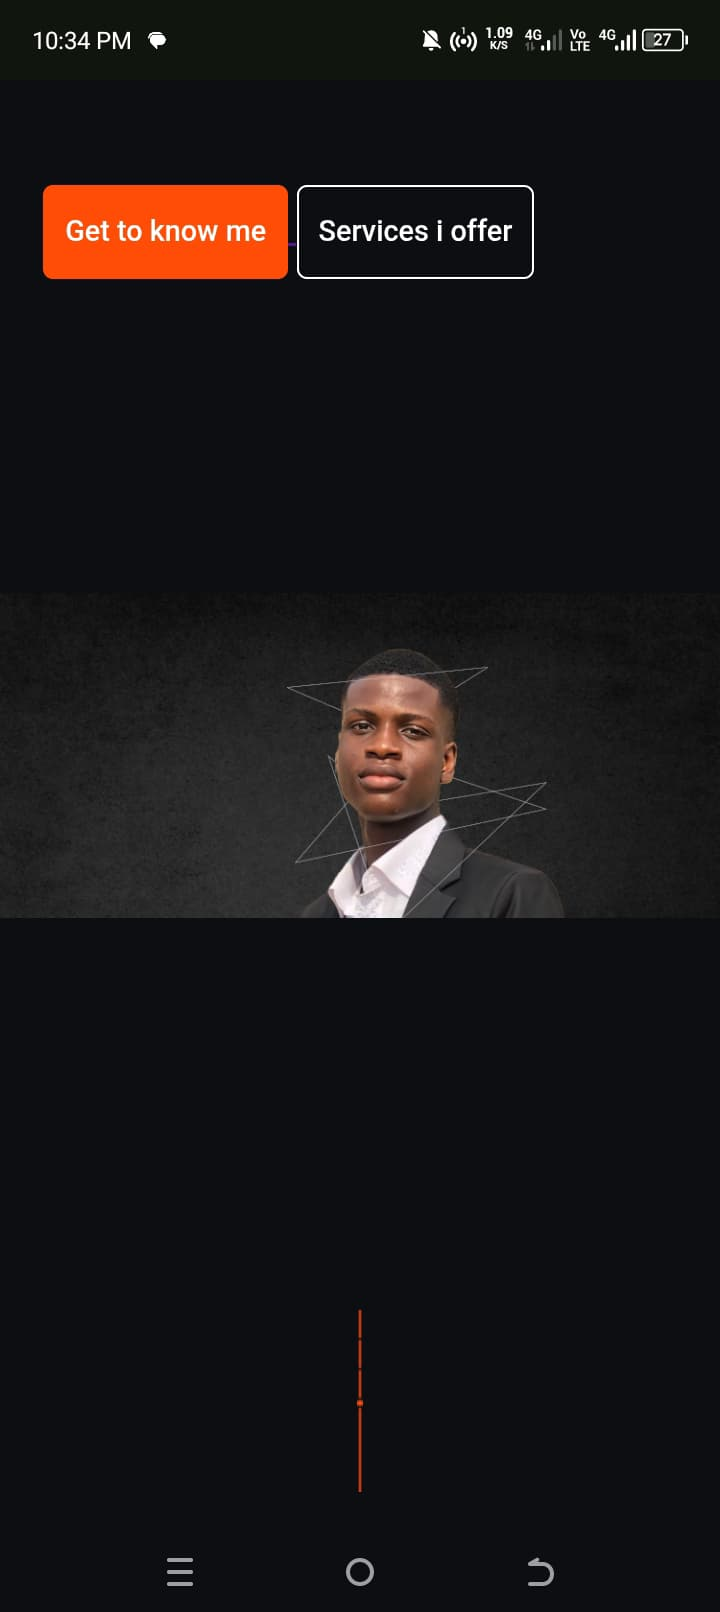
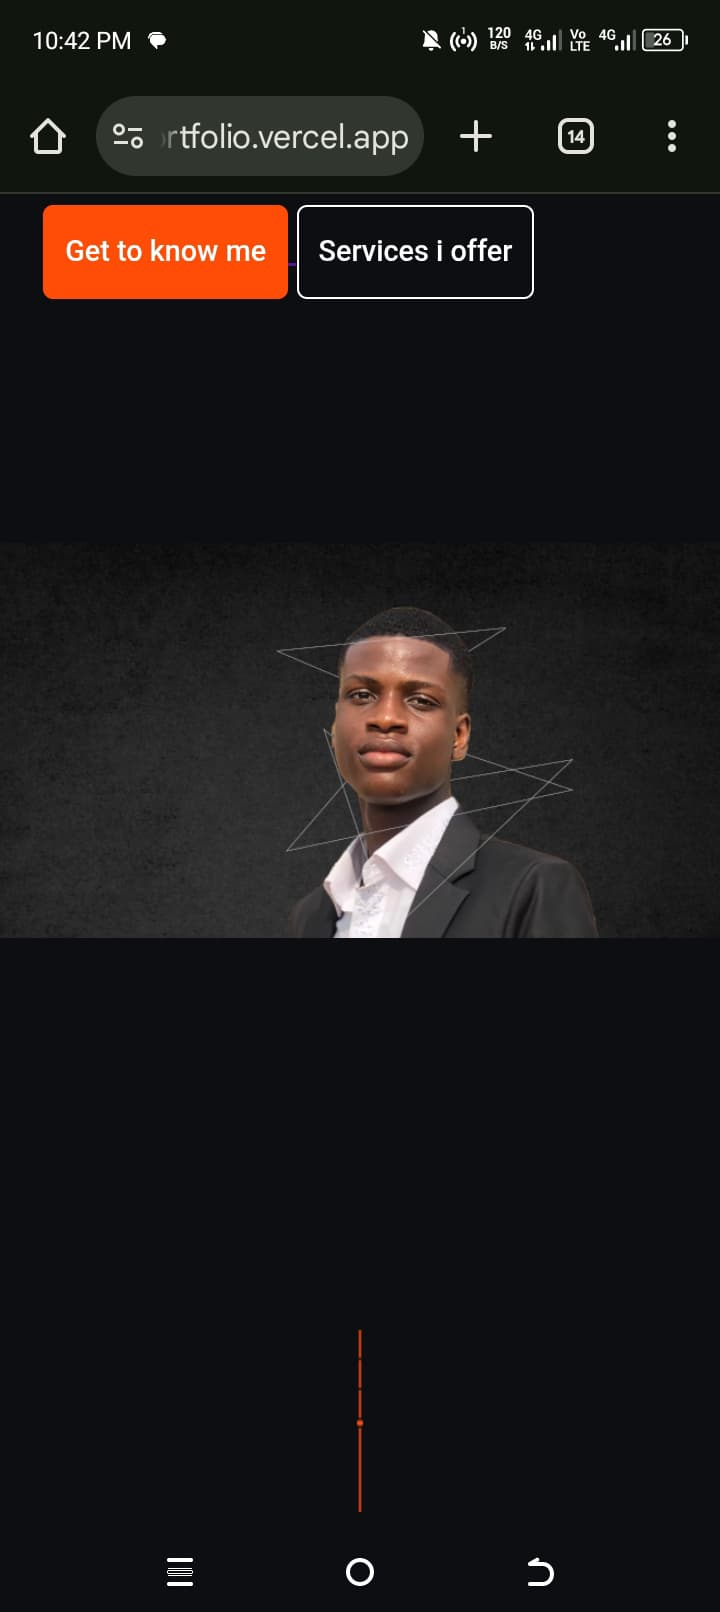
attempt 16

diff --git a/styles.css b/styles.css
@@ -749,11 +749,11 @@ h1 {
   }
   .imgContainer {
     width: 100vw;
-    height: 70vh; /* or try 70vh for more height */
-    min-height: 320px;
+    height: 90vw;      /* Use vw for a square-like aspect, or try 80vh for more height */
+    min-height: unset; /* Remove min-height restriction */
     display: flex;
     justify-content: center;
-    align-items: stretch; /* allow image to fill height */
+    align-items: stretch;
     padding: 0;
     background: none;
   }
